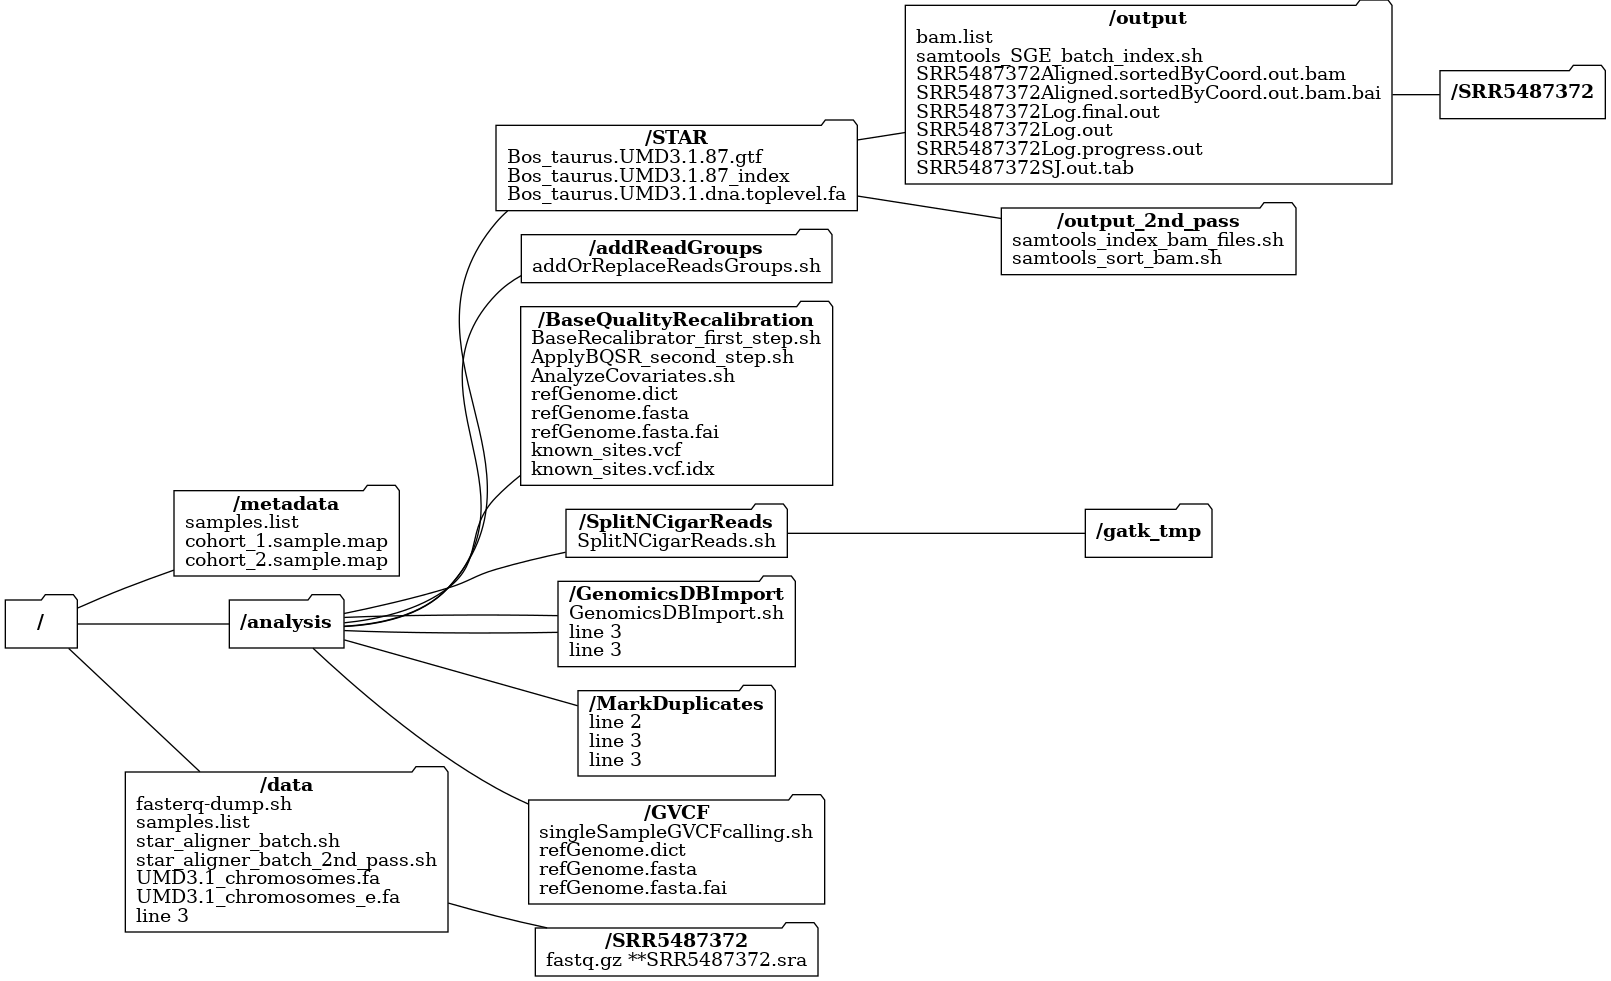
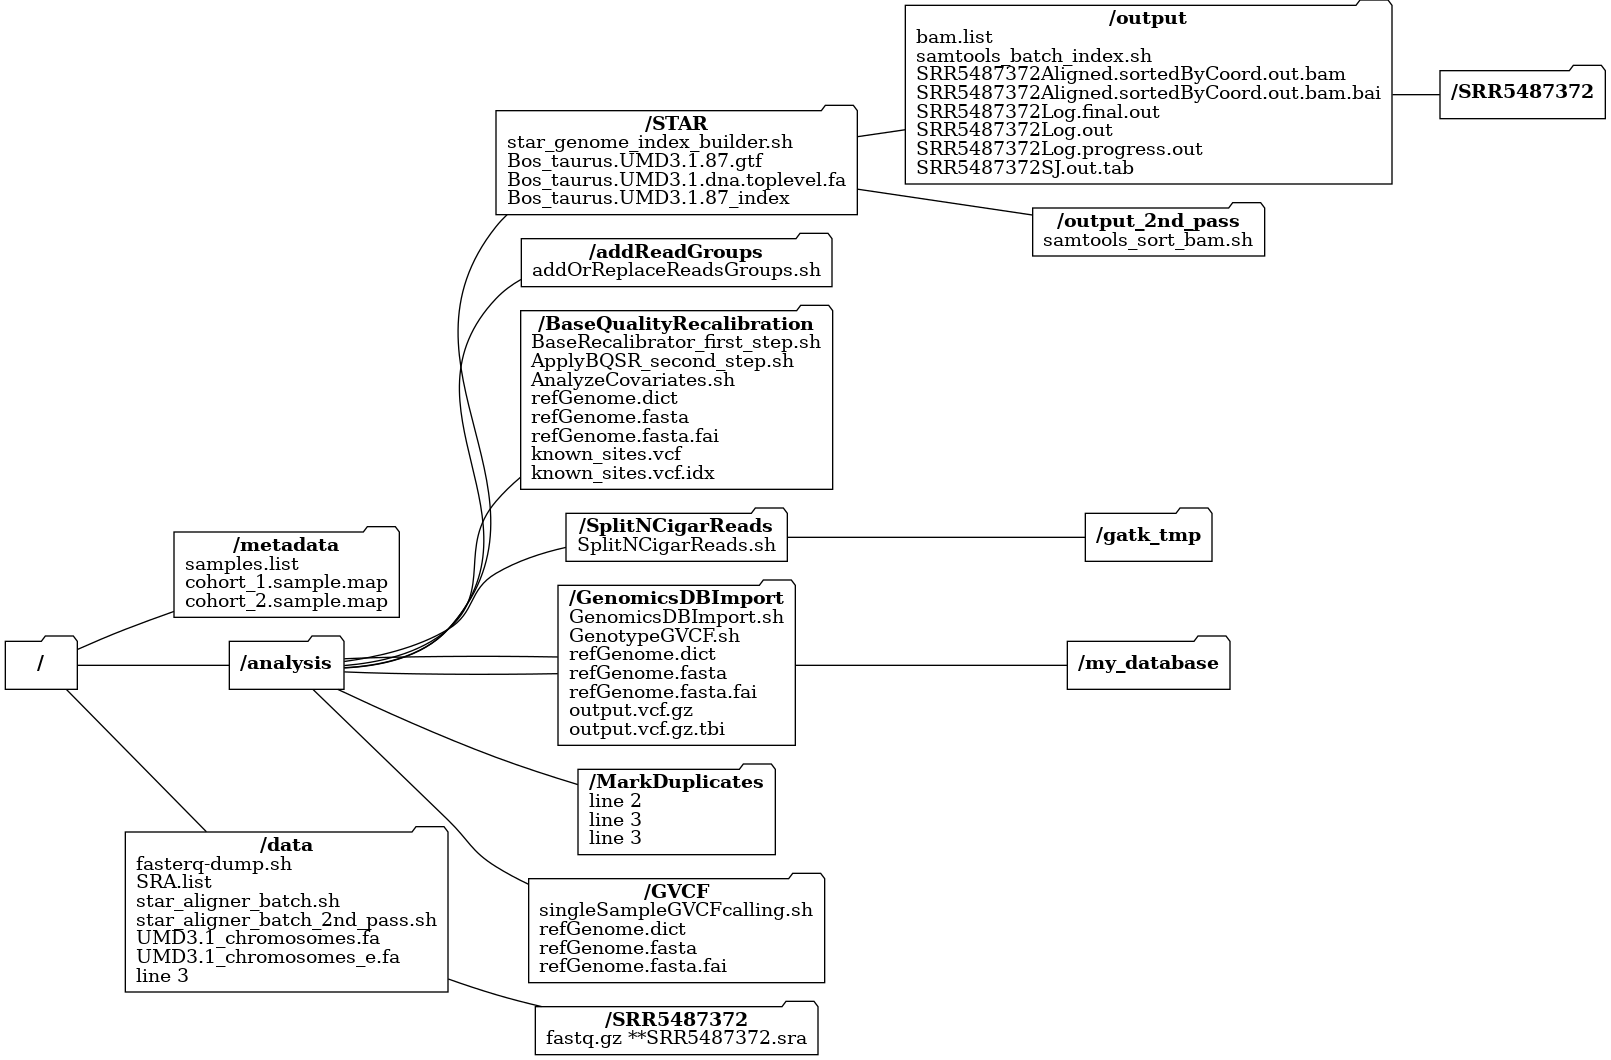
add faster-qdump.sh

diff --git a/ms/Methods.tex b/ms/Methods.tex
@@ -7,7 +7,7 @@
 If one is interested to reproduce the workflow presented here, a good starting point would be to download the following GitHub repository:
 
 \begin{verbatim}
-git clone soda460
+git clone https://github.com/soda460/RNAseq_GATK_JGW.git
 \end{verbatim}
 
 It contains all scripts described in this section as well as several text files that allow to easily reproduce the analysis presented here. Note that some scripts use relative paths. Therefore using the files/folder organization presentend in figure 2 will help to reproduce the results presented here with minimal changes.
@@ -26,9 +26,9 @@ contained will also make the whole process easier.
 
 \subsection{Downloading the MAP dataset from Sequence Read Archive}
 
-We will use the complete RNA-seq raw sequences from Ariel et al. \cite{Ariel2021}. However, rather than using the 72 samples presented in the article, we will focus on 24 representative samples of this study:
+We will use the complete RNA-seq raw sequences from \citep{Ariel2021}. However, rather than using the 72 samples presented in the article, we will focus on 24 representative samples of this study:
 
-The \textbf{samples.list} file located in the /data directory contains the SRA identifiers of these 24 samples:
+The \textbf{SRA.list} file contains the SRA identifiers of these 24 samples:
 \begin{verbatim}
 SRS2153774
 SRS2153779
@@ -58,44 +58,41 @@ SRS2153845
 
 
 
-Simply download the 24 samples with :
+Navigate to the /data directory and download the 24 samples with the the following command from the SRAtoolkit:
 
 \begin{verbatim}
-prefetch --option-file samples.list
+prefetch --option-file SRA.list
 \end{verbatim}
 
-To extract fq files from SRA files, the fasterq-dump command is required:
+To extract fastq files from .sra files, the fasterq-dump command is required. For example, the following command will produce SRR5487396\_R1.fastq.gz and SRR5487396\_R2.fastq.gz files from the SRR5487396.sra archive.
 
 \begin{verbatim}
-fasterq-dump --split-files SRR5487396.sra
+fasterq-dump --split-files SRR5487396/SRR5487396.sra
 \end{verbatim}
 
-In practice, you will want to do it for all folders. Navigate to the /data folder and use the following qsub command to lauch the faster-qdump commands sequentially:
+In practice, you will want to extract all downloaded sequence read archives, which are nested in distinct folders. Navigate to the /data folder and use the following qsub command to lauch the faster-qdump commands sequentially:
 
 \begin{verbatim}
 qsub faster-qdump.sh
 \end{verbatim}
 
-where \textbf{faster-qdump.sh} is a simple bash script :
+where \textbf{faster-qdump.sh} is a bash script containing instructions for the SGE workload manager and the code to iterate on all downloaded sequence read archives and produce the forward and reverse fastq files:
+
 \begin{verbatim}
-	#! /bin/bash
-	#$ -S /bin/bash
-	#$ -cwd
-	#$ -N 'fasterq-dump'
-	#$ -pe smp 12
-	#$ -o ./qsub_log.txt
-	#$ -e ./qsub_err.txt
+#! /bin/bash
+#$ -S /bin/bash
+#$ -cwd
+#$ -N 'fasterq-dump'
+#$ -pe smp 12
+#$ -o ./qsub_log.txt
+#$ -e ./qsub_err.txt
 	
-	for i in `ls -d SRR*`; do
+for i in `ls -d SRR*`; do
 	cd $i
 	fasterq-dump --split-files $i.sra
 	cd ..
-	done
+done
 \end{verbatim}
-
-
-
-
 
 
 %figure file organization
